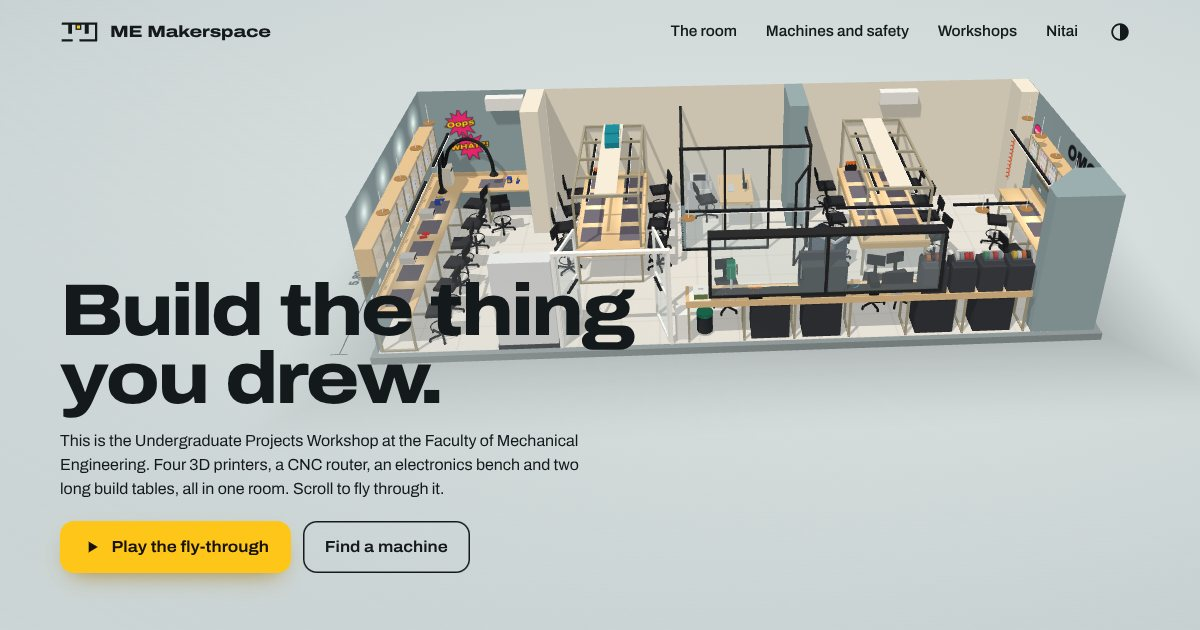
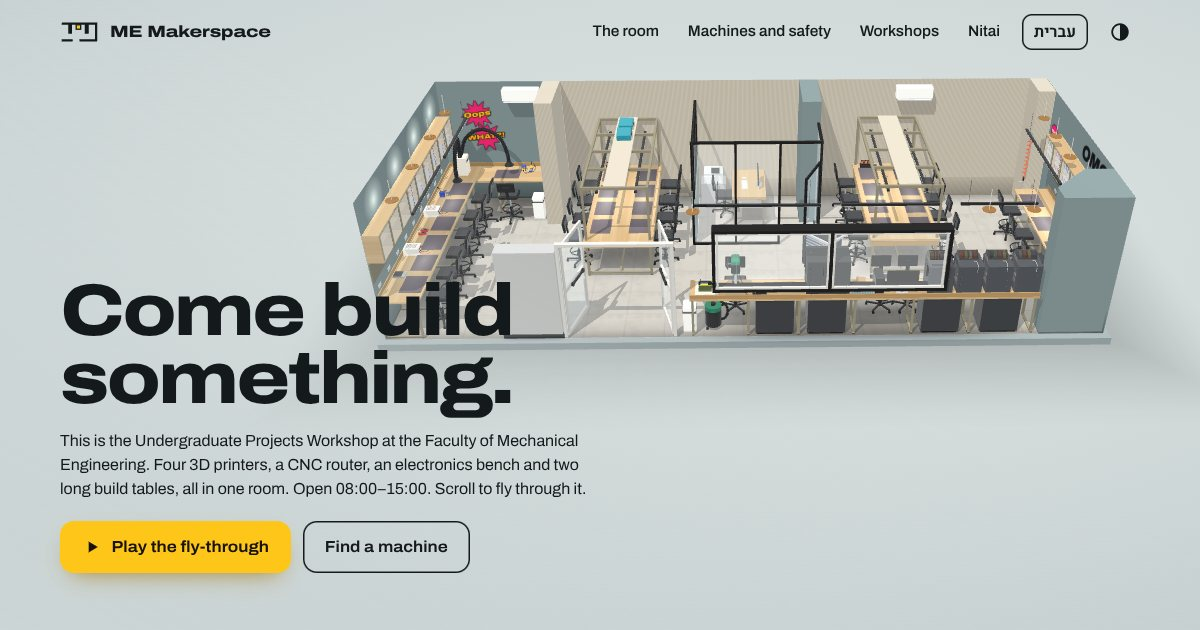
New headline: Come build something

diff --git a/he/index.html b/he/index.html
@@ -53,7 +53,7 @@
     <div class="stage__scrim" aria-hidden="true"></div>
 
     <div class="hero" id="hero">
-      <h1>בונים את מה ששרטטתם.</h1>
+      <h1>בואו לבנות משהו.</h1>
       <p class="hero__lede">זוהי הסדנא לפרויקטים בלימודי הסמכה של הפקולטה להנדסת מכונות. ארבע מדפסות תלת־ממד, כרסומת CNC, שולחן אלקטרוניקה ושני שולחנות בנייה ארוכים, הכול בחדר אחד. פתוח 08:00–15:00. גללו כדי לטוס בו.</p>
       <div class="hero__cta">
         <button class="btn btn--go" type="button" data-fly>

diff --git a/index.html b/index.html
@@ -53,7 +53,7 @@
     <div class="stage__scrim" aria-hidden="true"></div>
 
     <div class="hero" id="hero">
-      <h1>Build the thing you&nbsp;drew.</h1>
+      <h1>Come build something.</h1>
       <p class="hero__lede">This is the Undergraduate Projects Workshop at the Faculty of Mechanical Engineering. Four 3D&nbsp;printers, a CNC router, an electronics bench and two long build tables, all in one room. Open 08:00–15:00. Scroll to fly through it.</p>
       <div class="hero__cta">
         <button class="btn btn--go" type="button" data-fly>
